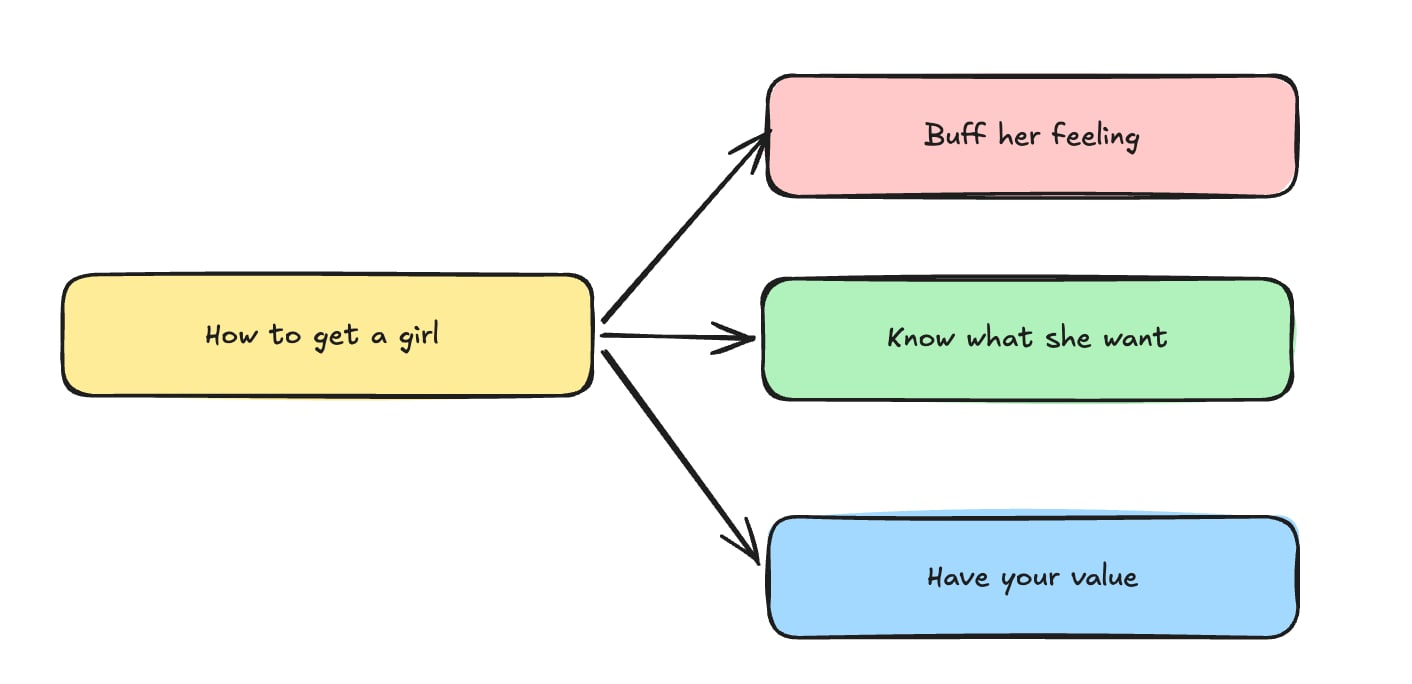
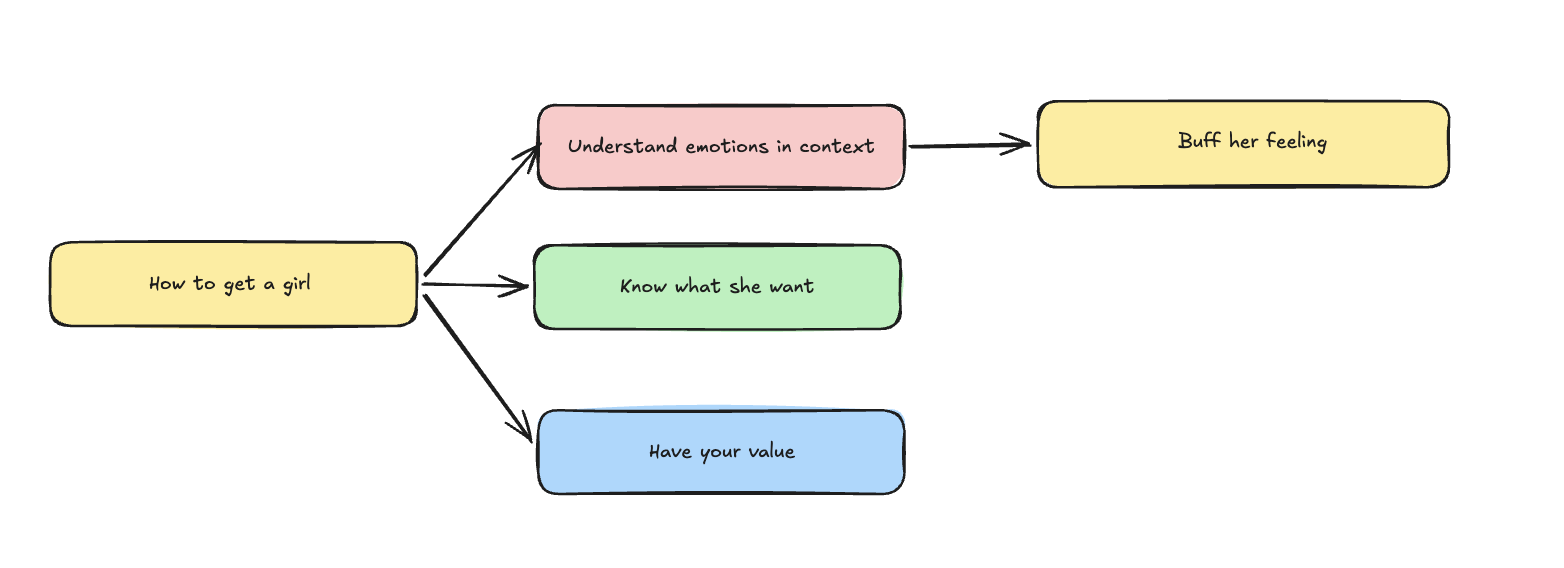
feat: add deploy

diff --git a/_includes/svg-icons.html b/_includes/svg-icons.html
@@ -70,6 +70,6 @@
   {% endif %}
 
   <p class="footer-note">
-    Since Jan 2025, with motivation and courage to break my ego, welcome feedbacks and grow myself.
+    Since Jan 2025, with motivation and courage to break my ego, welcome to be challenged and grow myself.
   </p>
 </div>

diff --git a/_layouts/default.html b/_layouts/default.html
@@ -541,6 +541,7 @@
           questions and facts (metrics, current system).</li>
         <img src="https://anduckhmt1406.site/images/IMG_5290.jpeg">
         <img src="https://anduckhmt1406.site/images/solution-action.png">
+        <img src="https://anduckhmt1406.site/images/how-to-get-it-done.png">
       </ul>
     </details>
 